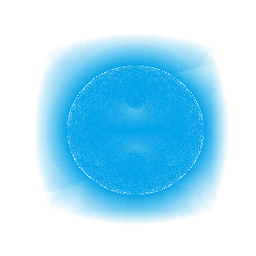
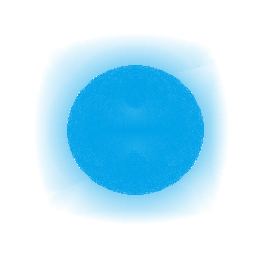
=re-processed examples and updated readme

diff --git a/README.md b/README.md
@@ -4,4 +4,12 @@ Blends adjacent areas of flat color together
 ## How it works
 Area Smoother was born out of wanting to smooth out flat single color areas produced by fractals and blen them into each other.
 For each pixel, the algorithm looks for the shortest line between the nearest boundary colors and computes a new color in a linear gradient between the boundary colors and the original color of the pixel.
-In effect it creates gradients between centers of flat color areas.
+<br/>In effect it creates gradients between centers of flat color areas.
+
+## Examples
+| Original | Smoothed |
+| :------: | :------: |
+| ![red circle plain](examples/o4.png) | ![red circle smoothed](examples/s4.png) |
+| ![circles plain](examples/o2.png)    | ![circles smoothed](examples/s2.png)    |
+
+See the [examples](examples "examples") folder for more examples.
